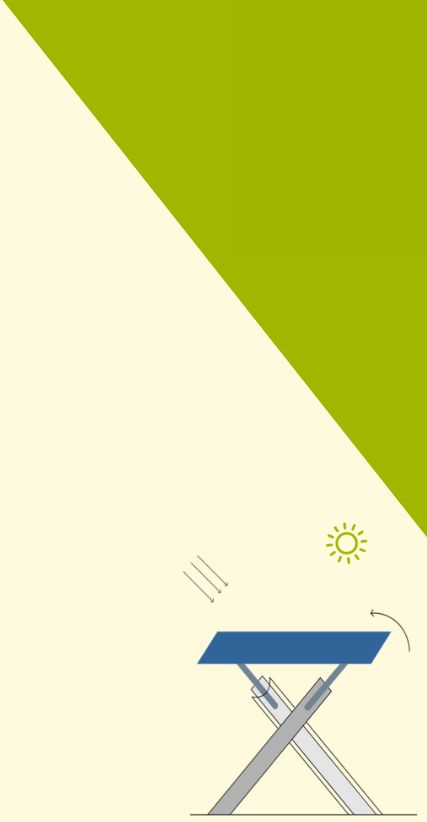
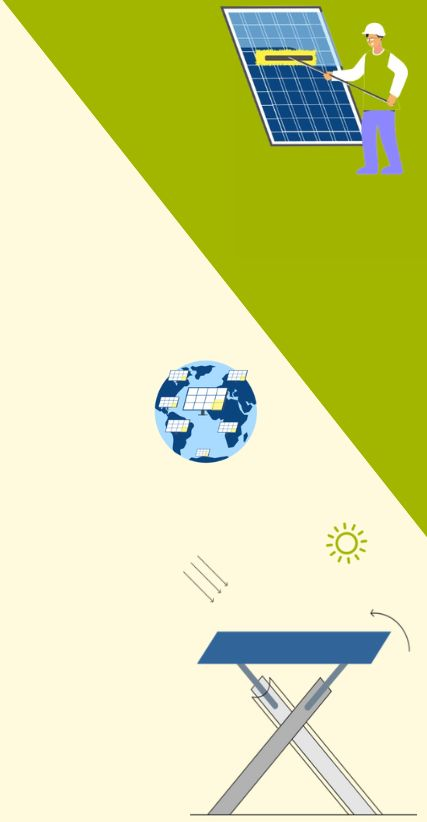
Eligify and SOlar-Swing card updated

Changed region(s): [[0.5176, 0.0, 0.9742, 0.2129], [0.3349, 0.4258, 0.6089, 0.5779]]

diff --git a/nextjs-portfolio/components/grid/widgets/solarswing.tsx b/nextjs-portfolio/components/grid/widgets/solarswing.tsx
@@ -1,4 +1,4 @@
-import projectImage from '@/public/images/solar_swing_1.png';
+import projectImage from '@/public/images/Solar-Swing-Card.jpg';
 import Card from '../../ui/card';
 import Image from 'next/image';
 import Anchor from '../../ui/anchor';
@@ -14,7 +14,7 @@ export default function SolarSwing() {
                 alt={projectName}
                 fill
                 sizes='(max-width: 768px) 100vw, (max-width: 1200px) 50vw, 33vw'
-                className='object-cover opacity-60 mix-blend-overlay'
+                className='object-cover opacity-100'
                 priority
                 draggable={false}
             />
@@ -31,7 +31,8 @@ export default function SolarSwing() {
                     </span>
                 </Anchor>
             </div>
-            <div className='absolute top-4 left-4 font-bold text-white z-10 text-xl tracking-wider'>Solar Swing</div>
+            <div className='absolute inset-0 pointer-events-none dark:bg-black/40' />
+            <div className='absolute top-4 left-4 font-bold text-black dark:text-white z-10 text-xl tracking-wider'>Solar Swing</div>
         </Card>
     );
 }

diff --git a/nextjs-portfolio/components/grid/widgets/eligify.tsx b/nextjs-portfolio/components/grid/widgets/eligify.tsx
@@ -31,8 +31,8 @@ export default function Eligify() {
                     </span>
                 </Anchor>
             </div>
-            <div className='absolute inset-0 bg-gradient-to-t from-black/30 to-transparent pointer-events-none' />
-            <div className='absolute top-4 left-4 font-bold text-white z-10 text-xl tracking-wider'>Eligify</div>
+            <div className='absolute inset-0 pointer-events-none dark:bg-black/40' />
+            <div className='absolute top-4 left-4 font-bold text-black dark:text-white z-10 text-xl tracking-wider'>Eligify</div>
         </Card>
     );
 }
